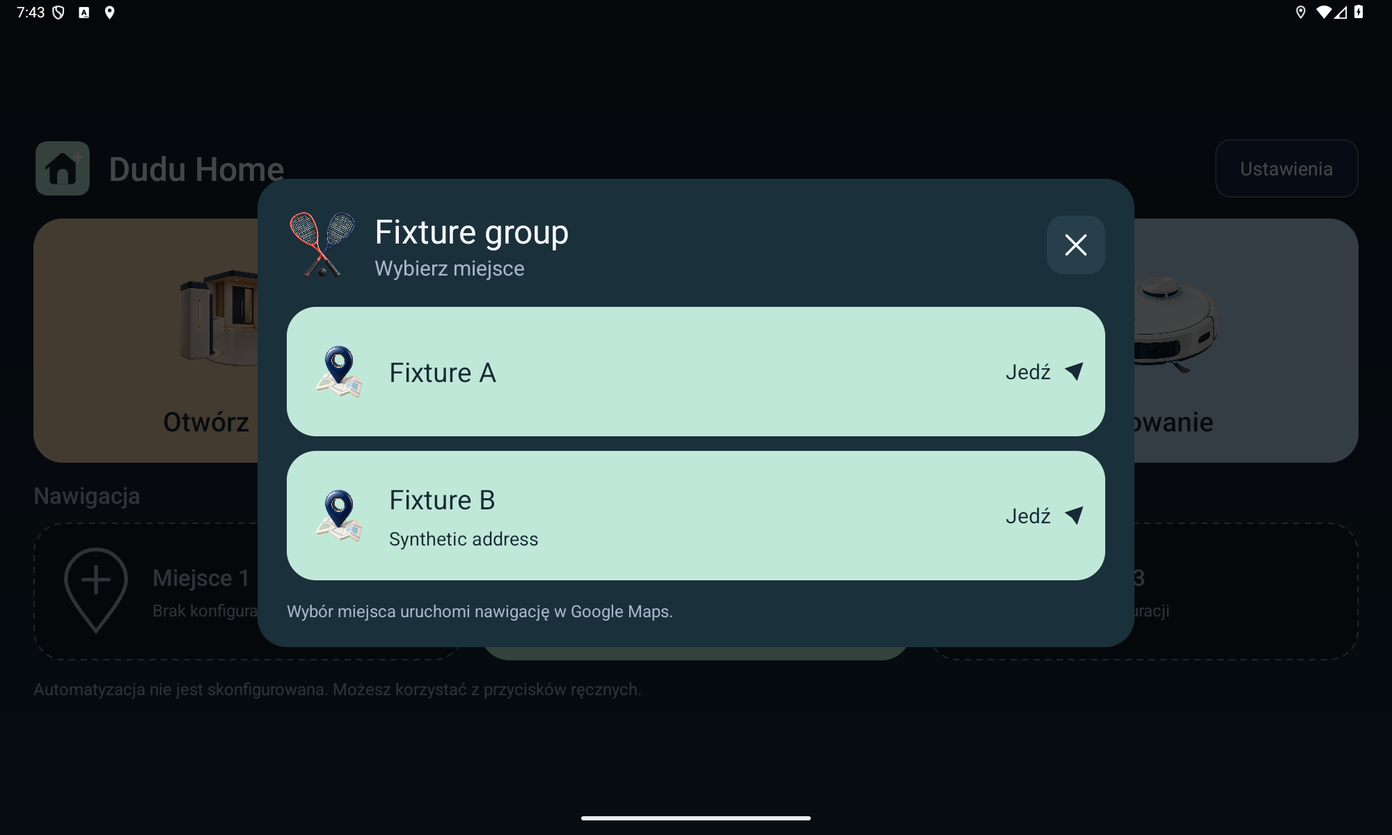
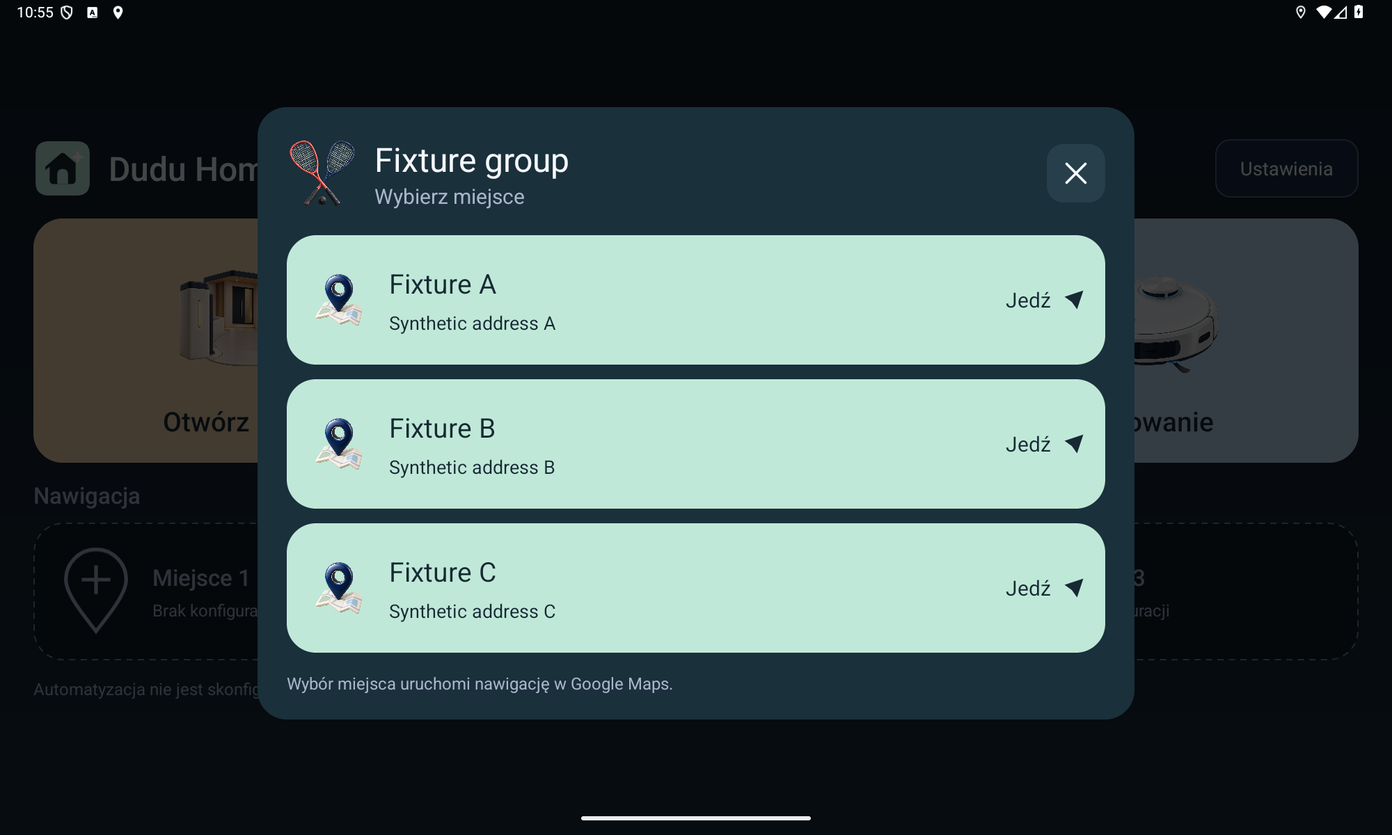
Prepare stable 1.1 with verified three-place navigation

Changed region(s): [[0.186, 0.1233, 0.837, 0.8633], [0.0, 0.0, 0.093, 0.0308]]

diff --git a/app/src/androidTest/java/com/pbuchman/duduhome/ui/NavigationGroupChecks.java b/app/src/androidTest/java/com/pbuchman/duduhome/ui/NavigationGroupChecks.java
@@ -25,13 +25,13 @@ public final class NavigationGroupChecks {
         return new JSONObject().put("schema_version", 2).put("slots", new JSONArray().put(slot)).toString();
     }
     public static void run(Instrumentation i) throws Exception {
-        for (int count : new int[]{0, 1, 2, 12}) {
+        for (int count : new int[]{0, 1, 2, 3, 12}) {
             NavigationConfig config = NavigationConfig.parse(fixture(count));
             require(count == 0 ? config.slot(1) == null : config.slot(1).destinations().size() == count, "list count");
             require(NavigationConfig.parse(config.serialize()).serialize().equals(config.serialize()), "group round trip");
             require(count == 1 || config.destination(1) == null, "no implicit first group destination");
         }
-        String sample = fixture(2);
+        String sample = fixture(3);
         for (String bad : new String[]{fixture(13), sample.replace("\"destinations\":", "\"destination\":null,\"destinations\":"),
                 sample.replace("\"label\":\"Fixture group\",", ""),
                 sample.replace("\"slot\":2", "\"slot\":true"),
@@ -66,7 +66,7 @@ public final class NavigationGroupChecks {
         try {
             i.runOnMainSync(() -> {
                 panel.render();
-                require(screen.findViewById(R.id.navigation_slot_2).getContentDescription().toString().contains("2 miejsca"),
+                require(screen.findViewById(R.id.navigation_slot_2).getContentDescription().toString().contains("3 miejsca"),
                         "Polish plural follows UI language, not system locale");
                 screen.findViewById(R.id.navigation_slot_2).performClick();
                 require(panel.busy() && opens.isEmpty() && reservations[0] == 0, "opening is inert");
@@ -78,32 +78,33 @@ public final class NavigationGroupChecks {
                 screen.findViewById(R.id.navigation_slot_2).performClick();
                 click(panel, "Zamknij");
                 require(!panel.busy(), "close button releases selector");
-                for (String label : new String[]{"Fixture A", "Fixture B"}) {
+                for (String label : new String[]{"Fixture A", "Fixture B", "Fixture C"}) {
                     panel.resumed(); screen.findViewById(R.id.navigation_slot_2).performClick();
                     View choice = find(dialog(panel).getWindow().getDecorView(), label);
                     require(choice != null, "destination is accessible"); choice.performClick(); choice.performClick();
                     require(!panel.busy(), "choice closes selector");
                 }
-                require(opens.size() == 2 && reservations[0] == 2, "one launch per selection despite double tap");
+                require(opens.size() == 3 && reservations[0] == 3, "one launch per selection despite double tap");
                 require(opens.get(0).getDataString().equals("google.navigation:q=0.0,0.0&mode=d")
-                        && opens.get(1).getDataString().equals("google.navigation:q=0.001,0.002&mode=d"), "exact selection order");
+                        && opens.get(1).getDataString().equals("google.navigation:q=0.001,0.002&mode=d")
+                        && opens.get(2).getDataString().equals("google.navigation:q=0.002,0.004&mode=d"), "exact selection order including third row");
                 panel.resumed(); screen.findViewById(R.id.navigation_slot_2).performClick();
                 available[0] = false; click(panel, "Fixture A");
-                require(panel.busy() && opens.size() == 2 && reservations[0] == 2, "missing Maps keeps selector without reservation");
+                require(panel.busy() && opens.size() == 3 && reservations[0] == 3, "missing Maps keeps selector without reservation");
                 available[0] = true; protectedWrite[0] = false; click(panel, "Fixture A");
-                require(panel.busy() && opens.size() == 2, "storage error never opens Maps");
+                require(panel.busy() && opens.size() == 3, "storage error never opens Maps");
                 protectedWrite[0] = true; allowed[0] = false; click(panel, "Fixture A");
-                require(!panel.busy() && opens.size() == 2, "guard rechecked on selection"); allowed[0] = true;
+                require(!panel.busy() && opens.size() == 3, "guard rechecked on selection"); allowed[0] = true;
                 screen.findViewById(R.id.navigation_slot_2).performClick();
                 Bundle state = new Bundle(); panel.saveState(state); panel.destroy();
                 NavigationPanel restored = new NavigationPanel(screen, () -> true, state, maps);
-                restored.render(); require(restored.busy() && opens.size() == 2, "recreation restores selector without navigation");
+                restored.render(); require(restored.busy() && opens.size() == 3, "recreation restores selector without navigation");
                 restored.destroy();
             });
             store.save(NavigationConfig.parse(fixture(1)));
             i.runOnMainSync(() -> {
                 panel.render(); panel.resumed(); screen.findViewById(R.id.navigation_slot_2).performClick();
-                require(!panel.busy() && opens.size() == 3, "singleton bypasses modal");
+                require(!panel.busy() && opens.size() == 4, "singleton bypasses modal");
             });
             store.save(NavigationConfig.parse(fixture(12)));
             i.runOnMainSync(() -> { panel.resumed(); panel.render(); screen.findViewById(R.id.navigation_slot_2).performClick();

diff --git a/scripts/test-navigation.py b/scripts/test-navigation.py
@@ -47,7 +47,7 @@ class NavigationTests(unittest.TestCase):
         self.assertEqual(result['slots'][1], group)
         self.assertEqual(result['slots'][0], {'slot': 1, 'destinations': []})
         self.assertEqual(validate_navigation(result), result)
-        for count in (0, 1, 2, 12):
+        for count in (0, 1, 2, 3, 12):
             copy = deepcopy(value); copy['slots'][0]['destinations'] = [place] * count
             self.assertEqual(len(validate_navigation(copy)['slots'][1]['destinations']), count)
         for patch in ({'destinations': [place] * 13}, {'destination': place}, {'destinations': None},
@@ -63,6 +63,21 @@ class NavigationTests(unittest.TestCase):
         huge = {'schema_version': 2, 'slots': [{**group, 'slot': n, 'destinations': [
             {**place, 'label': 'Ż' * 64, 'address': 'Ż' * 160} for _ in range(12)]} for n in (1,2,3)]}
         with self.assertRaises(ValueError): validate_navigation(huge)
+
+    def test_append_third_preserves_slots_order_and_address_mode(self):
+        first = deepcopy(self.value['slots'][0]['destination'])
+        second = {**first, 'label': 'Fixture B', 'address': 'Synthetic address B', 'navigate_by': 'address'}
+        third = {**first, 'label': 'Fixture C', 'latitude': .003, 'longitude': .006}
+        document = {'schema_version': 2, 'slots': [
+            {'slot': 1, 'label': 'Fixture home', 'icon': 'home', 'destinations': [first]},
+            {'slot': 2, 'label': 'Fixture group', 'icon': 'squash', 'destinations': [first, second]},
+            {'slot': 3, 'label': 'Fixture pin', 'icon': 'pin', 'destinations': [third]}]}
+        before = validate_navigation(document)
+        document['slots'][1]['destinations'].append(third)
+        after = validate_navigation(document)
+        self.assertEqual(after['slots'][0], before['slots'][0])
+        self.assertEqual(after['slots'][2], before['slots'][2])
+        self.assertEqual(after['slots'][1]['destinations'], [first, second, third])
 
     def test_parser_bounds_duplicates_and_trailing(self):
         with TemporaryDirectory() as directory:

diff --git a/README.md b/README.md
@@ -13,39 +13,18 @@ call or fresh evidence that the gate area no longer applies. No fixed delay bypa
 Spotify stays on screen; there is no additional desktop request. A manual Maps choice suppresses
 pending media startup so it cannot cover the chosen navigation.
 
-> **Current source and verified radio installation: `1.0.0-rc4` (code 17), September 27.**
-> Private destination groups, compatible import and physical menu/modal checks passed.
-> New destination launches on the radio remain pending; an existing Maps route was preserved.
-> The rc3 gate-area precondition is not yet verified on the radio. It changes media scheduling,
-> not the gate-call detector or its safety checks. A missing call still needs diagnostic evidence.
-> All three tiles started Google Maps guidance in rc1. In rc2, one destination explicitly
-> uses its full address to avoid an unwanted business name; its saved label passed on DUDU7.
-> The backed-up update preserved existing data. Remaining wake/journey checks still prevent
-> a final 1.0 release claim; see the [verification ledger](docs/VERIFICATION.md).
-> Includes notification-based Yanosik presence checks and earlier return progress from 0.5.2.
-> Notification access requires a one-time system grant. Detection of an already-running
-> Yanosik passed on DUDU7 without reopening it or requesting HOME.
-> **Intermittent failures also followed shorter stops.** A wake-task trimming race was captured
-> and fixed in 0.5.3; repeated manufacturer wake reliability still requires verification.
-> The backed-up DUDU7 update, private configuration import and fresh GPS delivery passed.
-> On `0.5.0`, monitoring recovered automatically after full reboot and one real ignition cycle.
-> The real movement banner and an automatic return call passed; the owner confirmed gate opening.
-> On 0.5.4, automatic launch, desktop return and real warning overlays passed on DUDU7.
-> Version 0.5.5 fixes the first-wake session baseline in code: a verified empty cold-start
-> observation establishes zero without granting an extra attempt. Unknown reads never do.
-> On 0.5.6, a backed-up update and full reboot passed: automatic monitoring, cold baseline zero,
-> movement-triggered Yanosik, then Spotify with a local session reporting PLAYING. Yanosik warnings
-> remained visible. Audible sound still needs confirmation; playback state alone is not proof.
-> **Full wake acceptance and gate/cleaning contention on 0.5.6 remain pending.**
-> Code 15 passed a fresh full-boot/monitoring check, a manual gate call and Full Cleaning cloud
-> acceptance. Physical effects and remaining combined scenarios are listed in [release readiness](docs/RELEASE_READINESS.md).
-> **Remaining departure, cleaning and repeated wake checks are still pending.**
-> The original gate-call baseline remains at `v0.1.0-baseline`. Source publication is not a
-> fully verified production release. No public APK is provided.
+> **Stable `1.1.0` (code 18), September 27.**
+> The owner confirmed the existing functionality and authorized a stable 1.1 release after
+> verification of a third destination. Three rows, selection, Maps guidance and its resolved
+> destination were verified on DUDU7 with the installed code 18 APK.
+> Historical journey/wake tests remain individually documented; general owner acceptance
+> does not imply that each previously unobserved hardware scenario was rerun.
+> See the [verification ledger](docs/VERIFICATION.md) and [release status](docs/RELEASE_READINESS.md).
+> Source only: no public APK, private configuration or signing key.
 
 ![Dudu Home with three navigation slots - synthetic emulator capture](docs/images/navigation-populated.png)
 
-[Empty navigation slots](docs/images/navigation-empty.png) · [Earlier radio menu](docs/images/menu-dudu7.png)
+[Three-place chooser](docs/images/navigation-groups.png) · [Empty navigation slots](docs/images/navigation-empty.png) · [Earlier radio menu](docs/images/menu-dudu7.png)
 
 The new screenshot uses invented labels and synthetic coordinates. Actual destination files and
 radio screenshots remain private.
@@ -83,7 +62,9 @@ See the [UI/background contract](docs/PROGRESS_UI.md) for exact meanings and lim
   attempt. No automatic retry or persisted queue.** It may wait up to 120 seconds behind a gate
   action and its result screen; the daily attempt remains consumed. Manual cleaning remains independent.
 - **Three Google Maps navigation slots:** private JSON import, generic icons and empty-slot guidance.
-  One destination starts navigation directly; multiple destinations open a modal chooser. [File format and behavior](docs/NAVIGATION.md).
+  Each slot accepts up to 12 ordered places: zero shows setup guidance, one starts navigation
+  directly, and two, three or more open a modal chooser. Add a third place by appending to the
+  private JSON and importing it again; no source edit or rebuild is needed. [File format and behavior](docs/NAVIGATION.md).
 - A small **Ustawienia** entry for the gate number and Roborock credentials. No map editor.
 - **Yanosik startup:** one launch attempt per full system boot or identified DUDU wake cycle, after at least
   ten seconds of qualified GPS movement. First check its foreground-service notification.

diff --git a/docs/NAVIGATION.md b/docs/NAVIGATION.md
@@ -1,6 +1,6 @@
 # Three private Google Maps navigation slots
 
-Version `1.0.0-rc4` supports up to twelve destinations per navigation slot. Slot order is
+Version `1.1.0` supports up to twelve destinations per navigation slot. Slot order is
 always 1, 2, 3. Zero destinations shows the existing empty tile; one opens Maps directly;
 two or more opens a modal in file order. The list length determines behavior, without a toggle.
 The modal dims and blocks the underlying app; X, Back and outside touch cancel without navigating.
@@ -32,7 +32,8 @@ This is a deliberately synthetic schema example, not a usable driving destinatio
       "icon": "squash",
       "destinations": [
         {"label": "Fixture A", "icon": "pin", "address": "Synthetic address A", "latitude": 0.001, "longitude": 0.001},
-        {"label": "Fixture B", "icon": "pin", "address": "Synthetic address B", "latitude": 0.002, "longitude": 0.002}
+        {"label": "Fixture B", "icon": "pin", "address": "Synthetic address B", "latitude": 0.002, "longitude": 0.002},
+        {"label": "Fixture C", "icon": "pin", "address": "Synthetic address C", "latitude": 0.003, "longitude": 0.003}
       ]
     }
   ]
@@ -74,6 +75,25 @@ validation rejects an oversized combined import before changing the device.
 Address text is descriptive by default: navigation uses coordinates. `navigate_by: address`
 sends its encoded full address instead; coordinates remain required for reference but are not
 sent in that mode. Existing address-mode targets keep their behavior. No automatic fallback.
+
+## Adding a third destination to an existing group
+
+The application is not limited to two places. Append a third destination object to the
+existing slot's `destinations` array in the **complete private configuration**. Do not add
+a fourth slot, replace the earlier entries, or change source code. The list order is the
+menu order, so appending preserves the first two choices. Keep the slot's label/icon and
+other slots unchanged, including each destination's `navigate_by` mode.
+
+After validation and reimport, the same tile displays `3 miejsca` and its modal contains
+three rows. Select the third row and verify the actual Maps endpoint and guidance screen,
+not just the menu label or a successful intent. Check that the first two entries still have
+their original targets. Changing the private JSON does not require rebuilding an APK on
+code 17 or later, but editing the computer-side file alone does not update the radio.
+
+Keep a private before/after copy and record which source file is now canonical in the private
+handoff. Never reuse an older two-entry file on a later install. Put only synthetic examples
+like Fixture A/B/C in public documentation and tests, even when a club's address is public:
+its association with the owner's configured destinations is private.
 
 ## Agent configuration runbook
 

diff --git a/docs/VERIFICATION.md b/docs/VERIFICATION.md
@@ -1,5 +1,35 @@
 # Verification ledger
 
+## 1.1.0: third destination and stable acceptance (September 27)
+
+The owner confirmed the existing functionality and explicitly authorized stable 1.1 after
+verification of a third navigation destination. This is owner acceptance, not a claim that
+every historical unobserved hardware scenario below has been repeated.
+
+- Code 18 / 1.1.0: debug APK, instrumentation APK and lint passed. Full emulator safety suite
+  and first-run/no-dial check passed. Group coverage includes 0/1/2/3/12, exact third-row intent,
+  list order, Polish count, duplicate taps, cancellation and existing failure protections.
+- Six Python navigation, eight private-tool, five fresh-installer and privacy-scanner tests
+  passed. The real emulator installer passed phone mismatch refusal, signature/backup/update,
+  atomic private import and quota preservation across restart; no real call or robot action.
+- Private configuration extends one existing group by appending a third destination. Other
+  slots, earlier group members and address modes are unchanged. The actual place was matched
+  in Maps and the operator's website; none of that identifying data is in the public tree.
+- DUDU7: matching signature, private APK/data backup and installed artifact SHA-256 verified.
+  Private import matched the complete 1/3/1 file. Gate settings, daily quota and journey session
+  remained identical at import; staging and maintenance were removed.
+- Physical UI: `3 miejsca`, all three ordered names/addresses and generic pins displayed.
+  Selecting the third row opened Maps driving guidance. Route overview and destination summary
+  confirmed the expected endpoint, Maps place name and street address. This confirms launch,
+  display and resolved destination, not arrival at the place or audible voice instructions.
+- Working tree/history scan with all private configuration sections passed; generic schema
+  vocabulary and ordinary-prose matches were manually reviewed. APK ZIP contents contained no
+  configured destination values. Updated public chooser image is a synthetic emulator capture,
+  visually reviewed; actual radio screenshots, Maps links and raw logs remain private.
+- Historical ignition/wake, overlap, audio and physical-effect scenarios retain their recorded
+  status below. The owner's release decision does not retroactively turn them into passed tests.
+
+
 ## 1.0.0-rc4: destination groups (September 27)
 
 Implementation adds a native destination chooser and compatible private schema 2.

diff --git a/AGENTS.md b/AGENTS.md
@@ -30,8 +30,11 @@ Verify with ./gradlew assembleDebug lintDebug and scripts/run-emulator-check.sh.
 Hardware verification is separate from emulator checks. Do not claim unavailable radio tests.
 The owner authorized publication of the current development source on 2026-09-08 after the
 privacy/documentation audit. Public main may include automation with explicitly pending hardware
-checks; the baseline remains tagged. Do not claim full acceptance or create a final release
-tag before the remaining journey/ignition checks pass. Never publish APKs.
+checks; the baseline remains tagged. The owner confirmed existing functionality on September 27
+and explicitly authorized stable 1.1 after verification of the third navigation destination.
+This supersedes the earlier blanket final-tag hold; publish only after that device check and
+normal build/test/privacy gates pass. Preserve historical unobserved journey/ignition checks
+as limitations, not completed tests. Never publish APKs.
 Preserve unrelated dirty files and the private predecessor without deleting or rewriting history.
 
 Current functional contract: docs/FUNCTIONAL.md. Architecture/auth: docs/ROBOROCK.md.
@@ -67,3 +70,11 @@ exact validation/import commands and rollback order. A private mockup is not a p
 For an explicitly authorized automatic installation, proceed when verified ADB is available
 without asking about driving/parking. Check for active calls/actions before stopping the app;
 wait for cleanup instead of interrupting a call. Never substitute data clearing for recovery.
+
+For a third or later member, append to the existing slot's destinations array, retaining the
+first members, slot metadata, other slots and navigate_by modes. Do not change the 3-slot
+limit or hard-code a particular group in Java. Current capacity is 12 places per slot.
+Validate and reimport the full file; verify the count, order, third-row selection and actual
+Maps destination/guidance privately. Update the private handoff's canonical source pointer
+so a later installation cannot restore a stale shorter list. Public release notes describe
+capabilities and sanitized evidence only, never the configured places or their Maps links.

diff --git a/docs/LOCAL_DEVELOPMENT.md b/docs/LOCAL_DEVELOPMENT.md
@@ -1,6 +1,7 @@
 # Handoff - local Full Cleaning implementation
 
-Current source and radio installation: 1.0.0-rc4/code 17, configurable navigation groups. Follow NAVIGATION.md
+Current source and verified radio installation: 1.1.0/code 18, the owner-authorized stable release.
+Three-place modal, exact private import and actual third-target Maps guidance/name passed. Follow NAVIGATION.md
 for the private full-file workflow and compatible schema migration; never use actual places
 in fixtures or docs. Current validation/install evidence is in VERIFICATION.md.
 
@@ -16,7 +17,7 @@ Adds a gate-area precondition before media movement detection/reservation, with 
 release or fresh outside evidence. No fixed timer, route threshold or call-safety change.
 See AUTOMATION_SEQUENCE and VERIFICATION. This code is included in the rc4 installation; its physical gate-area behavior remains unverified.
 
-`1.0.0-rc2` / code 15 is the last verified installation on DUDU7.
+`1.0.0-rc2` / code 15 is a historical verified installation on DUDU7.
 Three Maps tiles, private import, manual-media priority and per-destination address mode are
 verified as recorded in VERIFICATION. The merged-main build matches the installed APK exactly.
 Fresh build/lint, emulator, installer, recorded-route replay and privacy checks passed.
@@ -165,7 +166,7 @@ or repeat eight drives when only a particular hardware check is missing.
 4. Record results privately, add only sanitized summaries to VERIFICATION. Fix actual failures
    with scoped changes; rerun relevant checks. Never add stop/pause/status polling as a testing convenience.
 5. Keep public documentation explicit about pending checks; create a final release tag only
-   once radio criteria pass. Do not alter the original private repository, upload an APK or
+   once the current owner-authorized 1.1 criteria in RELEASE_READINESS pass. Do not alter the original private repository, upload an APK or
    leak calibration/account data.
 
 If unavailable, distinguish completed installation/manual calls/cloud acceptance from outstanding

diff --git a/docs/RELEASE_READINESS.md b/docs/RELEASE_READINESS.md
@@ -1,6 +1,23 @@
-# Release readiness - 2026-09-26
+# Release readiness - 2026-09-27
 
-Current candidate: **1.0.0-rc4 / versionCode 17**, adding private destination groups.
+## 1.1.0 / code 18
+
+The owner confirmed existing functionality and requested stable 1.1 after verifying the
+third configured destination on DUDU7. This explicit acceptance supersedes the historical
+blanket final-tag hold below. The third-target check and normal build, test, CI and privacy
+gates must pass before publication. Build/lint, full emulator, installer and private-data
+checks passed. Backed-up code 18 installation and APK hash match, private import, three-row
+UI, resolved Maps destination/address and active guidance passed on DUDU7. Verify final CI
+before merging PR #6 and tagging main. No APK or private assets are released.
+
+The historical physical checks below remain unobserved individually, unless newer evidence
+in VERIFICATION.md says otherwise. General owner acceptance is not proof that every wake,
+journey, audio or physical-effect test was performed. These remain documented limitations.
+
+## Historical 1.0 candidate assessment
+
+
+Historical candidate: **1.0.0-rc4 / versionCode 17**, adding private destination groups.
 Installed on DUDU7 with a verified private import and physical modal check. Real launches
 of the new destinations remain pending because existing Maps guidance was preserved.
 See VERIFICATION.md for build, emulator, installer and hardware results.

diff --git a/docs/FUNCTIONAL.md b/docs/FUNCTIONAL.md
@@ -12,11 +12,14 @@ Ręczne menu, wybrana nawigacja Maps i ekran wyniku zachowują pierwszeństwo.
 Nie zmieniają się progi wykrywania telefonu ani warunki bezpieczeństwa połączeń.
 Szczegóły i ograniczenia: [AUTOMATION_SEQUENCE.md](AUTOMATION_SEQUENCE.md).
 
-## Manual Google Maps navigation - 1.0.0-rc1
+## Manual Google Maps navigation - 1.1.0
 
 Three fixed-order slots sit below the gate and routine actions. Import their private JSON
-through Settings or the installer. Missing slots show a dashed empty state; configured slots
-request driving navigation in Google Maps. Configuration never executes an action. A manual
+through Settings or the installer. Each slot holds 0..12 destinations in file order. Missing
+slots show a dashed empty state, a singleton starts Maps directly, and multiple places open
+a modal chooser. Three choices use the same mechanism as two; append to the private list and
+reimport the complete file. X, Back and outside touch cancel without navigation. Only the
+selected row requests driving navigation in Google Maps. Configuration never executes an action. A manual
 Maps choice prevents pending media startup from covering it, with persistent, conservative
 wake rearming. Existing gate/cleaning behavior remains unchanged. See [NAVIGATION.md](NAVIGATION.md)
 for exact schema, error handling and limits. Actual guidance requires physical acceptance.

diff --git a/docs/OPERATIONS.md b/docs/OPERATIONS.md
@@ -1,6 +1,21 @@
 # Instalacja, konfiguracja i odzyskiwanie
 
-## Bieżąca instalacja 1.0.0-rc4
+## Bieżąca instalacja 1.1.0
+
+27 września zainstalowano code 18 z kopią APK/danych, kontrolą podpisu i zgodności SHA-256.
+Import prywatnego pełnego pliku potwierdził układ 1/3/1. Pierwsze dwa cele grupy, inne sloty,
+tryby nawigacji, numer bramy, dzienny limit i stan sesji zachowano. Na radiu sprawdzono
+napis „3 miejsca”, trzy wiersze i wybór trzeciego: Maps uruchomiły prowadzenie i pokazały
+właściwy cel oraz adres. Dowody i konfiguracja pozostają prywatne.
+
+Aby dopisać kolejne miejsce, użyj pełnego aktualnego navigation.json poza Git i dopisz element
+w istniejącym destinations. Zachowaj kolejność i inne sloty. Zweryfikuj plik, zaimportuj go
+ponownie i sprawdź cel w Maps. Sam zapis na komputerze nie zmienia radia. Nie trzeba zmieniać
+kodu ani budować APK, jeśli działa code 17 lub nowszy. Dokładna procedura i syntetyczny przykład
+trzech miejsc są w [NAVIGATION.md](NAVIGATION.md). Uaktualnij prywatny wskaźnik pliku źródłowego,
+aby późniejsza instalacja nie przywróciła starej listy.
+
+## Historyczna instalacja 1.0.0-rc4
 
 27 września zainstalowano code 17 z prywatną kopią APK/danych i kontrolą podpisu oraz SHA-256.
 Import schema 2 i układ slotów 1/2/1 przeszły weryfikację. Ustawienia bramy, limit dzienny i

diff --git a/CHANGELOG.md b/CHANGELOG.md
@@ -1,5 +1,15 @@
 # Change history
 
+## 1.1.0 (code 18) - 2026-09-27
+
+- Promote configurable navigation groups with up to 12 ordered destinations per slot.
+  Adding a third choice requires only a private file update and reimport.
+- Cover third-row selection, exact target order and preservation of other slots/modes with
+  synthetic tests; expand README and the agent configuration and acceptance runbooks.
+- Owner accepted existing functionality. The third target, its resolved Maps name/address
+  and driving guidance passed on installed code 18; see the verification ledger for limits.
+- Source-only distribution, no actual locations, private configuration or APK assets.
+
 ## 1.0.0-rc4
 
 - Support privately configured destination groups in all three navigation slots, with a native

diff --git a/docs/DECISIONS.md b/docs/DECISIONS.md
@@ -1,5 +1,14 @@
 # Design decisions
 
+## Stable 1.1 and third destination - September 27
+
+- Append private configuration within the existing 12-place capacity; no new slot or UI fork.
+- Add synthetic third-row selection/order coverage and document the complete-file update.
+- Owner confirms existing functionality and authorizes stable 1.1 after the third target is
+  verified on the radio. This supersedes the earlier blanket hold on a final tag. Keep
+  historical unobserved hardware scenarios explicit; owner acceptance is not a new test log.
+- Stable publication remains source-only; no private destination or APK release assets.
+
 ## Configurable destination groups - 1.0.0-rc4
 
 - Schema 2 defines tile metadata and a bounded list; support legacy singleton documents unchanged.
